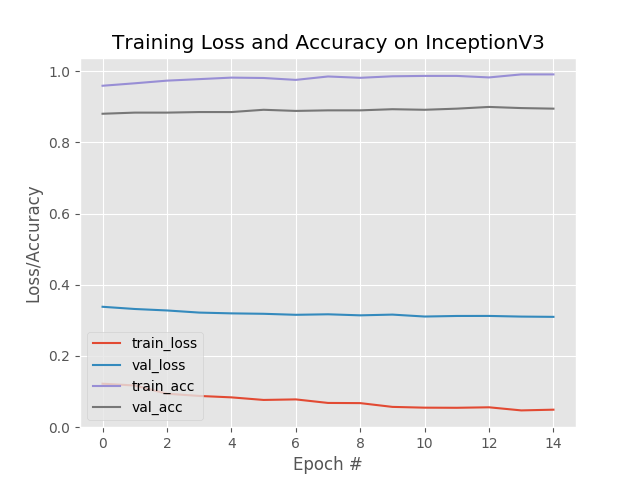
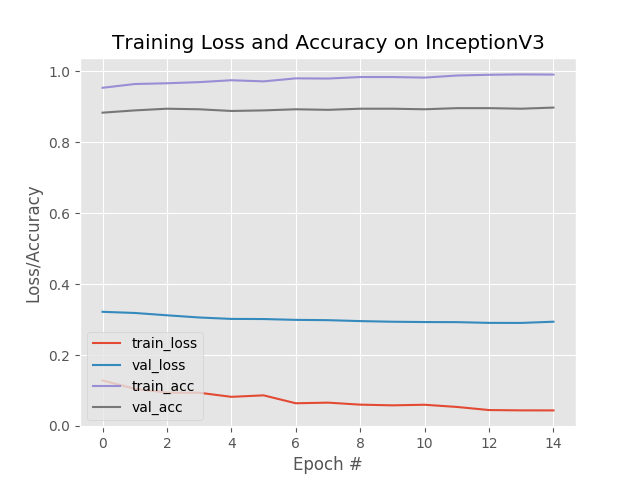
Update the plot and fix minor bugs

diff --git a/fineTuning/Sctrach.py b/fineTuning/Sctrach.py
@@ -1,19 +1,16 @@
 import numpy as np
 import matplotlib.pyplot as plt
-%matplotlib inline
 
 import keras
 from keras.models import Sequential
 from keras.layers import Dense, Conv2D, MaxPooling2D, Dropout, Flatten
 from keras.utils import to_categorical
 from sklearn.model_selection import train_test_split
-
-
-
+from utils import LoadImages
 def createModel(nClasses):
     model = Sequential()
     # The first two layers with 32 filters of window size 3x3
-    model.add(Conv2D(32, (3, 3), padding='same', activation='relu', input_shape=(224,224,3)))
+    model.add(Conv2D(32, (3, 3), padding='same', activation='relu', input_shape=(128,128,3)))
     model.add(Conv2D(32, (3, 3), activation='relu'))
     model.add(MaxPooling2D(pool_size=(2, 2)))
     model.add(Dropout(0.25))
@@ -37,7 +34,7 @@ def createModel(nClasses):
 
 
 #Create Dataset
-(data,labels,CategoryMapping)=LoadImages("/nfs/ug/homes-0/y/yangze3/Image-based-Reminder/images",224,224)
+(data,labels,CategoryMapping)=LoadImages("/nfs/ug/homes-0/y/yangze3/Image-based-Reminder/images",128,128)
 	# scale the raw pixel intensities to the range [0, 1]
 data = np.array(data, dtype="float") / 255.0
 labels = np.array(labels)
@@ -49,8 +46,6 @@ NumberOfClass=len(CategoryMapping)
 trainY = to_categorical(trainY, num_classes=NumberOfClass)
 testY = to_categorical(testY, num_classes=NumberOfClass)
 
-train_labels_one_hot = to_categorical(trainY)
-test_labels_one_hot = to_categorical(testY)
 
 
 
@@ -61,11 +56,11 @@ model1.compile(optimizer='rmsprop', loss='categorical_crossentropy', metrics=['a
 
 model1.summary()
 
-history = model1.fit(trainX, train_labels_one_hot, batch_size=batch_size, epochs=epochs, verbose=1, 
-                   validation_data=(testX, test_labels_one_hot))
-model1.evaluate(test_data, test_labels_one_hot)
+result = model1.fit(trainX, trainY, batch_size=batch_size, epochs=epochs, verbose=1, 
+                   validation_data=(testX, testY))
+model1.evaluate(testX,testY)
 print("[INFO] serializing network...")
-model.save("Sctrach.model")
+model1.save("Sctrach.model")
 
 plt.style.use("ggplot")
 plt.figure()

diff --git a/fineTuning/InceptionV3.py b/fineTuning/InceptionV3.py
@@ -70,10 +70,10 @@ def fine_tuning():
 	# and train the remaining top layers.
 
 
-	batch_size=16
-	nb_epoch=10
+	batch_size=32
+	nb_epoch=15
 
-
+        model.summary()
 
 	model.fit(trainX, trainY,
               batch_size=batch_size,
@@ -101,7 +101,8 @@ def fine_tuning():
               verbose=1,
               validation_data=(testX, testY),
               )
-	print("[INFO] serializing network...")
+	model.evaluate(testX,testY)
+        print("[INFO] serializing network...")
 	model.save("inception.model")
 	# we train our model again (this time fine-tuning the top 2 inception blocks
 	# alongside the top Dense layers
